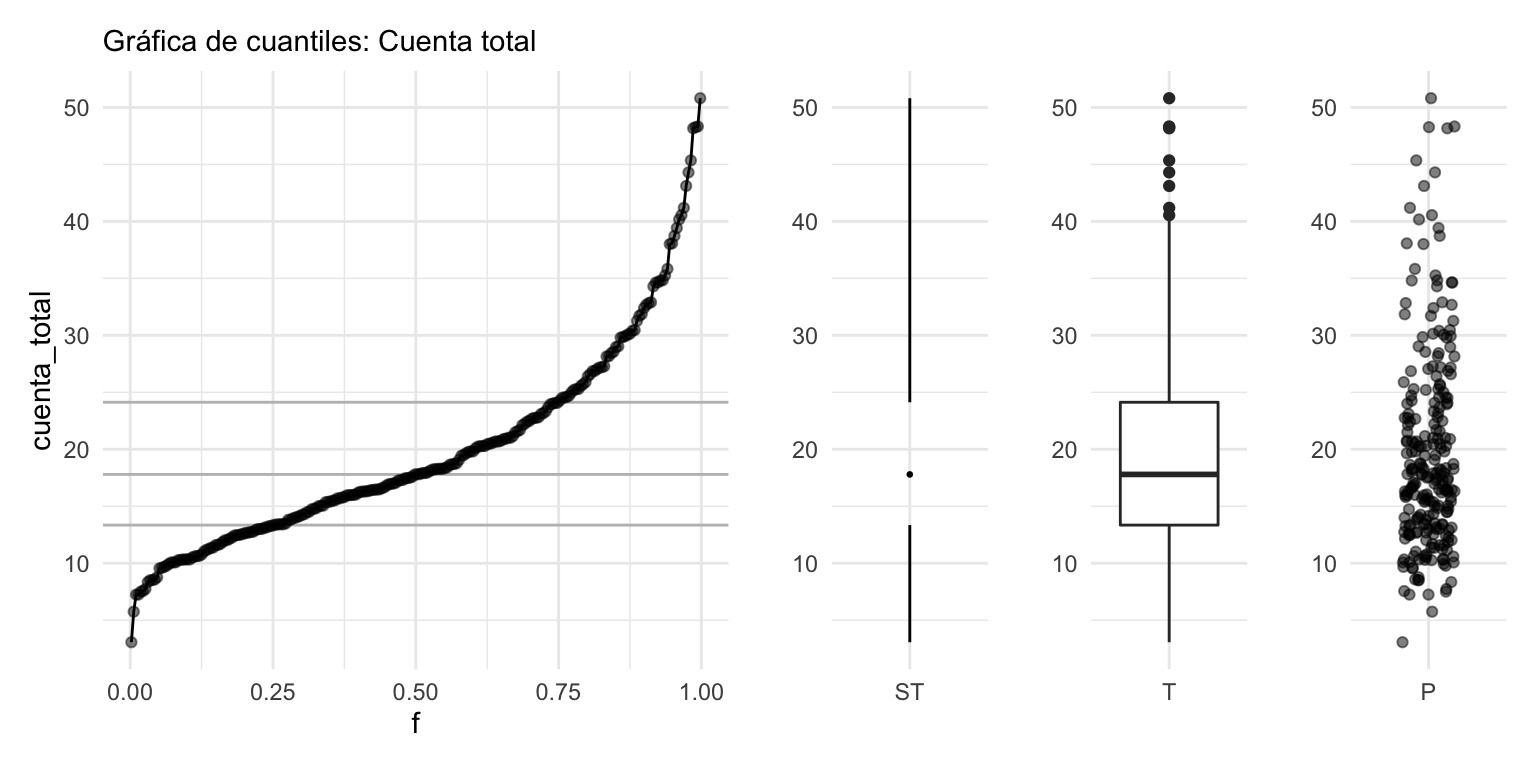
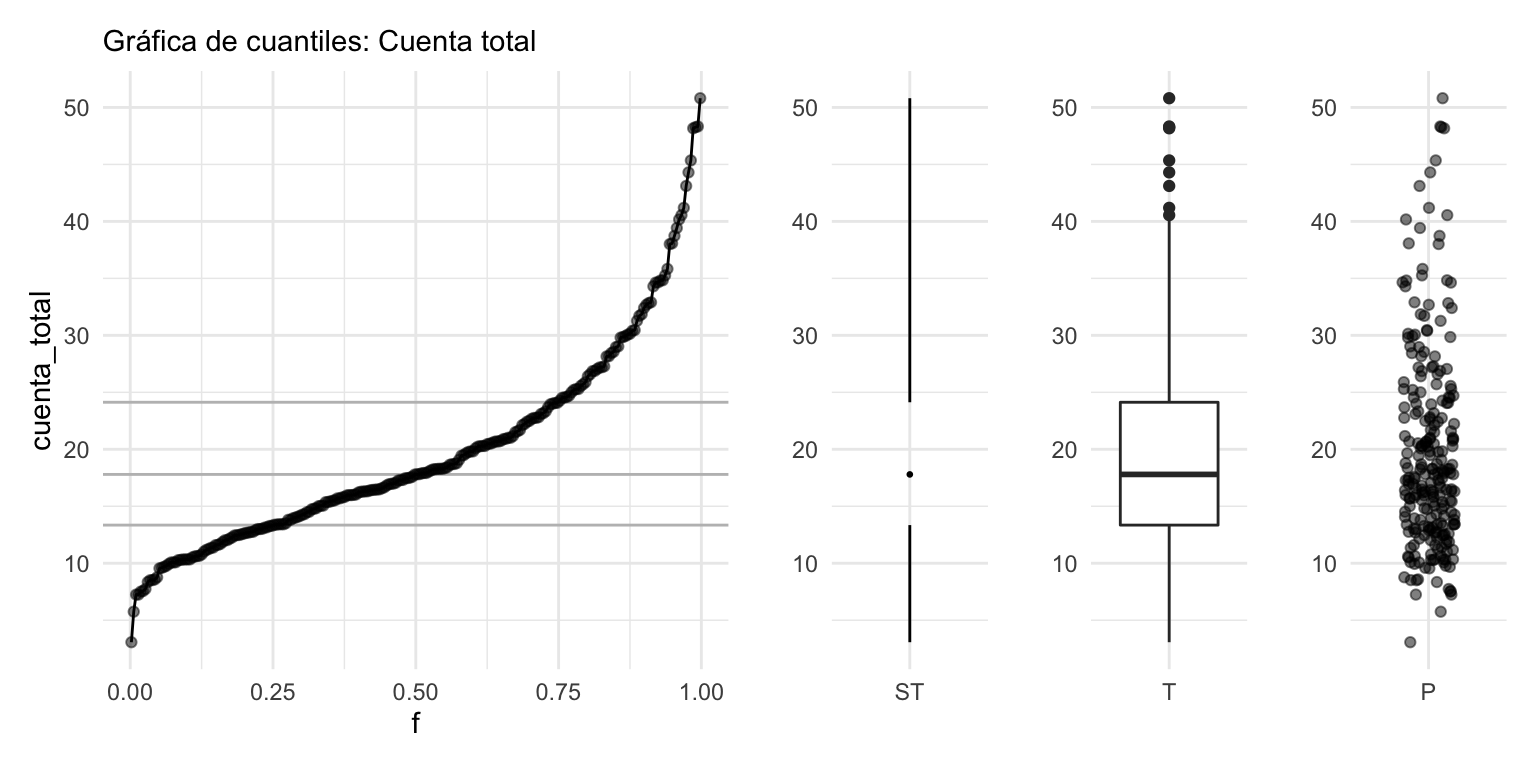
tereom published a site update

Changed region(s): [[0.9062, 0.1562, 0.9688, 0.8438]]

diff --git a/análisis-exploratorio.html b/análisis-exploratorio.html
@@ -310,70 +310,62 @@ cuatro días consecutivos:</p>
 </thead>
 <tbody>
 <tr class="odd">
-<td align="right">34.83</td>
-<td align="right">5.17</td>
+<td align="right">15.69</td>
+<td align="right">1.50</td>
+<td align="left">Si</td>
+<td align="left">Dom</td>
+<td align="left">Cena</td>
+<td align="right">2</td>
+</tr>
+<tr class="even">
+<td align="right">32.40</td>
+<td align="right">6.00</td>
 <td align="left">No</td>
-<td align="left">Jue</td>
-<td align="left">Comida</td>
+<td align="left">Dom</td>
+<td align="left">Cena</td>
+<td align="right">4</td>
+</tr>
+<tr class="odd">
+<td align="right">19.49</td>
+<td align="right">3.51</td>
+<td align="left">No</td>
+<td align="left">Dom</td>
+<td align="left">Cena</td>
+<td align="right">2</td>
+</tr>
+<tr class="even">
+<td align="right">16.04</td>
+<td align="right">2.24</td>
+<td align="left">No</td>
+<td align="left">Sab</td>
+<td align="left">Cena</td>
+<td align="right">3</td>
+</tr>
+<tr class="odd">
+<td align="right">20.29</td>
+<td align="right">3.21</td>
+<td align="left">Si</td>
+<td align="left">Sab</td>
+<td align="left">Cena</td>
+<td align="right">2</td>
+</tr>
+<tr class="even">
+<td align="right">13.39</td>
+<td align="right">2.61</td>
+<td align="left">No</td>
+<td align="left">Dom</td>
+<td align="left">Cena</td>
+<td align="right">2</td>
+</tr>
+<tr class="odd">
+<td align="right">48.27</td>
+<td align="right">6.73</td>
+<td align="left">No</td>
+<td align="left">Sab</td>
+<td align="left">Cena</td>
 <td align="right">4</td>
 </tr>
 <tr class="even">
-<td align="right">18.26</td>
-<td align="right">3.25</td>
-<td align="left">No</td>
-<td align="left">Jue</td>
-<td align="left">Comida</td>
-<td align="right">2</td>
-</tr>
-<tr class="odd">
-<td align="right">30.06</td>
-<td align="right">2.00</td>
-<td align="left">Si</td>
-<td align="left">Sab</td>
-<td align="left">Cena</td>
-<td align="right">3</td>
-</tr>
-<tr class="even">
-<td align="right">10.27</td>
-<td align="right">1.71</td>
-<td align="left">No</td>
-<td align="left">Dom</td>
-<td align="left">Cena</td>
-<td align="right">2</td>
-</tr>
-<tr class="odd">
-<td align="right">16.31</td>
-<td align="right">2.00</td>
-<td align="left">No</td>
-<td align="left">Sab</td>
-<td align="left">Cena</td>
-<td align="right">3</td>
-</tr>
-<tr class="even">
-<td align="right">12.03</td>
-<td align="right">1.50</td>
-<td align="left">Si</td>
-<td align="left">Vie</td>
-<td align="left">Cena</td>
-<td align="right">2</td>
-</tr>
-<tr class="odd">
-<td align="right">10.34</td>
-<td align="right">1.66</td>
-<td align="left">No</td>
-<td align="left">Dom</td>
-<td align="left">Cena</td>
-<td align="right">3</td>
-</tr>
-<tr class="even">
-<td align="right">18.29</td>
-<td align="right">3.00</td>
-<td align="left">No</td>
-<td align="left">Dom</td>
-<td align="left">Cena</td>
-<td align="right">2</td>
-</tr>
-<tr class="odd">
 <td align="right">17.51</td>
 <td align="right">3.00</td>
 <td align="left">Si</td>
@@ -381,13 +373,21 @@ cuatro días consecutivos:</p>
 <td align="left">Cena</td>
 <td align="right">2</td>
 </tr>
-<tr class="even">
-<td align="right">17.59</td>
-<td align="right">2.64</td>
+<tr class="odd">
+<td align="right">31.27</td>
+<td align="right">5.00</td>
 <td align="left">No</td>
 <td align="left">Sab</td>
 <td align="left">Cena</td>
 <td align="right">3</td>
+</tr>
+<tr class="even">
+<td align="right">10.34</td>
+<td align="right">2.00</td>
+<td align="left">Si</td>
+<td align="left">Jue</td>
+<td align="left">Comida</td>
+<td align="right">2</td>
 </tr>
 </tbody>
 </table>

diff --git a/tareas.html b/tareas.html
@@ -270,7 +270,8 @@ grupo de control, que no recibía suplementos alimenticios. Se registraron peso 
 talla antes y después del experimento. El estudio descubrió que los niños que
 recibieron la leche ganaron más en peso en el lapso del estudio. Una
 investigación posterior descubrió que los niños del grupo control eran de mayor
-peso y talla que los del grupo control. ¿Qué pudo haber ocurrido? ¿Podemos
+peso y talla que los del grupo control, antes de iniciar el tratamiento.
+¿Qué pudo haber ocurrido? ¿Podemos
 utilizar los resultados del estudio para inferir causalidad?</p></li>
 <li><p>Supongamos que de los registros de un conjunto de doctores se slecciona una
 muestra aleatoria de individuos americanos caucásicos y de americanos de

diff --git a/02-exploratorio.md b/02-exploratorio.md
@@ -89,16 +89,16 @@ sample_n(propinas, 10) %>% formatear_tabla()
 
 | cuenta_total| propina|fumador |dia |momento | num_personas|
 |------------:|-------:|:-------|:---|:-------|------------:|
-|        34.83|    5.17|No      |Jue |Comida  |            4|
-|        18.26|    3.25|No      |Jue |Comida  |            2|
-|        30.06|    2.00|Si      |Sab |Cena    |            3|
-|        10.27|    1.71|No      |Dom |Cena    |            2|
-|        16.31|    2.00|No      |Sab |Cena    |            3|
-|        12.03|    1.50|Si      |Vie |Cena    |            2|
-|        10.34|    1.66|No      |Dom |Cena    |            3|
-|        18.29|    3.00|No      |Dom |Cena    |            2|
+|        15.69|    1.50|Si      |Dom |Cena    |            2|
+|        32.40|    6.00|No      |Dom |Cena    |            4|
+|        19.49|    3.51|No      |Dom |Cena    |            2|
+|        16.04|    2.24|No      |Sab |Cena    |            3|
+|        20.29|    3.21|Si      |Sab |Cena    |            2|
+|        13.39|    2.61|No      |Dom |Cena    |            2|
+|        48.27|    6.73|No      |Sab |Cena    |            4|
 |        17.51|    3.00|Si      |Dom |Cena    |            2|
-|        17.59|    2.64|No      |Sab |Cena    |            3|
+|        31.27|    5.00|No      |Sab |Cena    |            3|
+|        10.34|    2.00|Si      |Jue |Comida  |            2|
 
 
 Aquí la unidad de observación es una cuenta particular. Tenemos tres mediciones

diff --git a/98-tareas.md b/98-tareas.md
@@ -34,7 +34,8 @@ grupo de control, que no recibía suplementos alimenticios. Se registraron peso 
 talla antes y después del experimento. El estudio descubrió que los niños que
 recibieron la leche ganaron más en peso en el lapso del estudio. Una 
 investigación posterior descubrió que los niños del grupo control eran de mayor 
-peso y talla que los del grupo control. ¿Qué pudo haber ocurrido? ¿Podemos 
+peso y talla que los del grupo control, antes de iniciar el tratamiento. 
+¿Qué pudo haber ocurrido? ¿Podemos 
 utilizar los resultados del estudio para inferir causalidad?
 
 1. Supongamos que de los registros de un conjunto de doctores se slecciona una 
